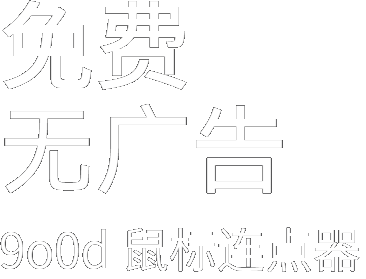
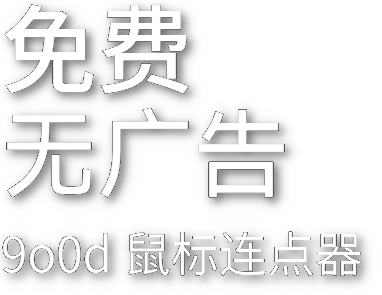
.

Changed region(s): [[0.0, 0.3728, 0.7814, 0.7168], [0.0, 0.7742, 0.9918, 0.9749], [0.0, 0.0, 0.5109, 0.3441]]

diff --git a/index.html b/index.html
@@ -81,7 +81,7 @@
 		background: linear-gradient(to LEFT, #212121, #000000);
        	-webkit-background-clip: text;
        	color: WHITE;
-		margin-left:280px;
+		left:15%;
 		top:100px;
 		text-align: left;
 		position:fixed;
@@ -130,7 +130,7 @@
 	.imgsc {
 		position:fixed;
 		top:200px;transform:scale(1.5);box-shadow: 22px 27px 32px -25px rgba(0,0,0,0.53);
-		left: 1000px;border-radius: 10px;
+		left: 53%;border-radius: 10px;
 	} 
 			a{text-decoration: none;}
 			h1{color: transparent;position: fixed;top:0px;left:0px;width:0px;height: 0px;user-select:none;}
@@ -144,13 +144,13 @@
 			.dlbutton {
     position: relative;
 				font-family: "&micro;&Egrave;&Iuml;&szlig; Light";
-		margin-left:290px;
+		left:15%;
 		top:500px;
     width: 240px;
     height: 72px;
     border: none;
     border-radius: 2px;
-    background: transparent;
+    background: #212121;
     color: var(--btn-color);
     font-size: 32px;
     font-weight: 700;
@@ -266,8 +266,8 @@
 }
 
 		</style>
-<body style="bg; color: #000000; background-image: url('dark.png')">
-<div class="topbar"><h1>9o0d 鼠标连点器</h1>
+<body style="bg; color: #000000; background-image: url('dark.png')"><h1>9o0d 鼠标连点器</h1>
+<div class="topbar">
 	<a href="https://www.9o0d.top"><p class="topbar9o0d">9o0d</p></a><img class="imgsc" alt='软件截图' src="https://9o0d.pages.dev/bg.png"/><p class="topbard" id="0"><img alt='免费  无广告  9o0d 鼠标连点器' src="https://9o0d.pages.dev/t.png"/></p>
 	<button class="dlbutton" onclick="location.href='9o0dMC/9o0dMC_win_Downloader.exe'" style="--btn-color: #33B9E5;">
             下载<font size="-3">(For Windows x64)</font>
